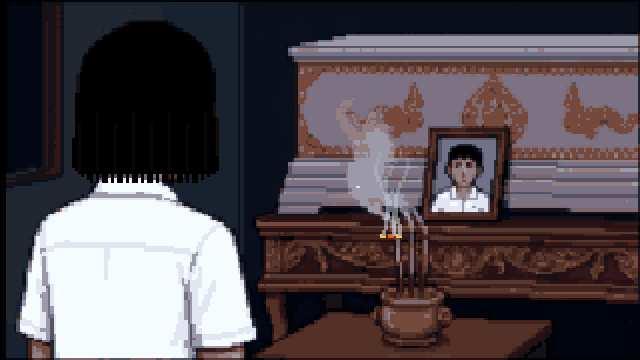
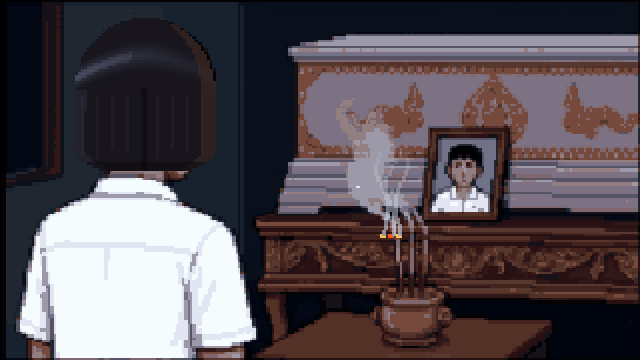
Intro fixes: shaded bob for Rin, no black bars, no doubled flashlight
- tools/rin_bob.py repaints Rin's funeral hair with shading (crown sheen,
  strands, candle rim, curled ends) instead of a flat black block
- crop the black bars baked into intro_s4_f1 so the grove fills the view
- size the story window from the screen height so the viewport stays 16:9
  on short laptop screens (no side bars)
- the grove/arrival frames already paint the hand and flashlight, so the
  code-drawn flashlight and sai-sin are only a fallback now

Changed region(s): [[0.0938, 0.0611, 0.3438, 0.5194]]

diff --git a/public/story-intro.js b/public/story-intro.js
@@ -381,19 +381,24 @@
   }
 
   /* -------------------- Shared Pixel Art Drawing Helpers -------------------- */
-  function drawCoverFrame(ctx, img, t, { zoom = 1, panX = 0, panY = 0, shakeX = 0, shakeY = 0, alpha = 1 } = {}) {
+  // Frames whose art has black bars baked in (a half-open-eyes shot): draw only the picture
+  // part, so the scene fills the viewport and the held flashlight never floats over black.
+  const FRAME_CROP = {
+    intro_s4_f1: [0, 46, 634, 270],
+  };
+
+  function drawCoverFrame(ctx, img, t, { zoom = 1, panX = 0, panY = 0, shakeX = 0, shakeY = 0, alpha = 1, crop = null } = {}) {
     if (!img) return false;
     ctx.save();
     ctx.globalAlpha = alpha;
     ctx.imageSmoothingEnabled = false;
-    const iw = img.naturalWidth || img.width;
-    const ih = img.naturalHeight || img.height;
+    const [sx, sy, iw, ih] = crop || [0, 0, img.naturalWidth || img.width, img.naturalHeight || img.height];
     const scale = Math.max(W / iw, H / ih) * zoom;
     const dw = iw * scale;
     const dh = ih * scale;
     const dx = (W - dw) * 0.5 + panX + shakeX;
     const dy = (H - dh) * 0.5 + panY + shakeY;
-    ctx.drawImage(img, Math.round(dx), Math.round(dy), Math.round(dw), Math.round(dh));
+    ctx.drawImage(img, sx, sy, iw, ih, Math.round(dx), Math.round(dy), Math.round(dw), Math.round(dh));
     ctx.restore();
     return true;
   }
@@ -885,7 +890,7 @@
     ctx.fillRect(0, 0, W, H);
 
     const img = getImg(line.frame || 'intro_s4_f0') || getImg('intro_panel_4');
-    drawCoverFrame(ctx, img, t, { zoom: 1.03, panX: Math.sin(t * 0.8) * 5, panY: Math.cos(t * 0.6) * 2 });
+    drawCoverFrame(ctx, img, t, { zoom: 1.03, panX: Math.sin(t * 0.8) * 5, panY: Math.cos(t * 0.6) * 2, crop: FRAME_CROP[line.frame] });
 
     // Floating moonlit mist & fireflies across Thai banana grove
     ctx.save();
@@ -899,8 +904,9 @@
     }
     ctx.restore();
 
-    // Protagonist holding lit keepsake flashlight + glowing wrist sai-sin in bottom-left corner
-    if (line.heldFlashlight) {
+    // Protagonist holding lit keepsake flashlight + glowing wrist sai-sin in bottom-left corner.
+    // The painted grove frames already show the hand and flashlight, so this is only a fallback.
+    if (line.heldFlashlight && !img) {
       const swayX = Math.sin(t * 1.8) * 6;
       const swayY = Math.cos(t * 2.1) * 4;
       drawPocketFlashlight(ctx, 136 + swayX, H - 78 + swayY, 2.5, true, t);
@@ -960,7 +966,8 @@
     ctx.fillRect(mx - 22, my - 24, 44, 94);
     ctx.restore();
 
-    if (line.heldFlashlight) {
+    // the painted frames already show the hand and flashlight; draw ours only as a fallback
+    if (line.heldFlashlight && !frameImg) {
       drawPocketFlashlight(ctx, 136, H - 78, 2.5, true, t);
       drawSaiSinGlow(ctx, 94, H - 58, t, 1.45, 0.95);
     }

diff --git a/public/style.css b/public/style.css
@@ -3139,7 +3139,9 @@ body,
 .story-intro.hidden { display: none; }
 
 .story-window {
-  width: min(980px, 95vw);
+  /* sized from the screen height minus the subtitle area (~190px), so the picture keeps
+     16:9 on a short laptop screen instead of being squashed with black bars beside it */
+  width: min(980px, 95vw, calc((94vh - 190px) * 16 / 9));
   max-height: 94vh;
   display: flex;
   flex-direction: column;
@@ -3157,7 +3159,6 @@ body,
   position: relative;
   width: 100%;
   aspect-ratio: 16 / 9;
-  max-height: 62vh;
   background: #040406;
   border-bottom: 1px solid rgba(201, 164, 90, 0.36);
   overflow: hidden;
@@ -3393,7 +3394,6 @@ body,
 }
 
 @media (max-height: 680px) {
-  .story-viewport { max-height: 55vh; }
   .story-line { min-height: 2.5em; }
 }
 

diff --git a/tools/rin_bob.py b/tools/rin_bob.py
@@ -1,6 +1,10 @@
 """Paint a schoolgirl bob onto the protagonist (seen from behind) in the funeral frames.
-Usage: python -I rin_bob.py <frames_dir>   -> writes intro_s1_fN_rin.png beside each frame."""
-import sys, os
+Usage: python -I rin_bob.py <frames_dir>   -> writes intro_s1_fN_rin.png beside each frame.
+
+The hair is shaded like the rest of the pixel art: a dark blue-black base, a cool sheen band
+across the crown (window light from the left), a few lighter strands, a warm candle rim on the
+right and a rounded, curled-under bottom edge, so it reads as hair and not a black box."""
+import sys, os, math
 from PIL import Image
 
 # per frame: skull left/right at its widest row, that row's y, collar top at the neck centre
@@ -13,41 +17,82 @@ HEADS = {
 }
 B = 3  # art pixel block
 
+BASE = (24, 21, 28)
+DEEP = (12, 10, 15)
+STRAND = (38, 36, 48)
+SHEEN = (58, 64, 84)
+SHEEN_HI = (82, 90, 112)
+RIM = (66, 44, 34)
+
+
+def mix(a, b, k):
+    return tuple(int(a[i] + (b[i] - a[i]) * k) for i in range(3))
+
+
+def head_top(px, cx, wy):
+    y = wy
+    while y > 2 and sum(px[cx, y - 1]) < 90:
+        y -= 1
+    return y
+
 
 def paint(src, dst, xL, xR, wy, yC):
     im = Image.open(src).convert('RGB')
     px = im.load()
     W, H = im.size
     cx = (xL + xR) // 2
-    samp = sorted(px[x, y] for x in range(max(0, cx - 30), cx + 30, 3) for y in range(wy - 30, wy, 3))
-    base = samp[len(samp) // 2]
-    shade = lambda d: tuple(max(0, min(255, c + d)) for c in base)
-    yB = yC + 16
-    length = yB - wy
-    width = xR - xL
-    for by in range(wy - wy % B, yB, B):
-        t = (by - wy) / length
-        flare = int(4 * t)                           # bob widens a touch toward the ends
-        curl = 0
-        if t > 0.78:                                 # rounded, curled-under bottom corners
-            curl = int(((t - 0.78) / 0.22) ** 1.6 * 22)
-        lo, hi = xL - flare + curl, xR + flare - curl
-        for bx in range(lo - lo % B, hi + 1, B):
-            u = (bx - xL) / max(1, width)            # 0 left .. 1 right
-            c = shade(0)
-            # strands: thin lighter lines that start at different heights
-            k = (bx // B) % 6
-            if k == 2 and 0.2 + 0.2 * ((bx // B) % 4) / 3 < t < 0.85:
-                c = shade(7)
-            if hi - B < bx and 0.1 < t < 0.7:           # faint warm rim from the altar candles
-                c = (min(255, base[0] + 22), min(255, base[1] + 13), min(255, base[2] + 7))
-            if t > 0.9 and (bx // B) % 5 in (1, 3):  # tapered, slightly uneven tips
+    cxs = min(W - 1, max(0, cx))
+    top = head_top(px, cxs, wy) - 2
+    half = (xR - xL) / 2 + 1          # a little volume over the skull
+    yB = yC + 3                       # ends just on the collar
+    for by in range(top - top % B, yB, B):
+        yc = by + B / 2
+        if yc < wy:                   # crown: follow the skull's ellipse
+            v = (wy - yc) / max(1, wy - top)
+            hw = half * math.sqrt(max(0.0, 1 - v * v))
+        else:                         # fall: straight, then curl under at the ends
+            t = (yc - wy) / max(1, yB - wy)
+            hw = half + 1.5 * t
+            if t > 0.72:
+                hw -= ((t - 0.72) / 0.28) ** 2 * half * 0.35
+        if hw < 2:
+            continue
+        lo, hi = cx - hw, cx + hw
+        for bx in range(int(lo) - int(lo) % B, int(hi) + 1, B):
+            xc = bx + B / 2
+            if xc < lo or xc > hi:
                 continue
-            for yy in range(by, min(by + B, H)):
+            u = (xc - lo) / max(1, hi - lo)          # 0 left .. 1 right
+            c = BASE
+            # sheen: an arc across the upper crown, brightest on the window (left) side
+            if yc < wy + 8:
+                v = (wy - yc) / max(1, wy - top)     # 1 at the top, 0 at the widest row
+                band = 1 - abs(v - (0.5 - 0.3 * (u - 0.5) ** 2 * 4)) / 0.2
+                if band > 0:
+                    k = band * (0.85 - 0.6 * u)
+                    c = mix(c, SHEEN_HI if band > 0.7 and u < 0.4 else SHEEN, max(0, min(1, k)))
+            # strands below the sheen, staggered lengths
+            col = int(bx // B)
+            if yc > wy + 4 and col % 5 == 2:
+                end = yB - 3 * B - (col * 7 % 4) * B
+                if yc < end:
+                    c = mix(c, STRAND, 0.5)
+            # parting shadow down the middle of the back
+            if abs(xc - cx) < B and yc > wy - 6:
+                c = mix(c, DEEP, 0.6)
+            # cold window light on the left edge, warm candle rim on the right
+            if u < 0.08 and yc > wy - 4:
+                c = mix(c, SHEEN, 0.3)
+            if u > 0.9 and yc > top + 6:
+                c = mix(c, RIM, 0.55)
+            # the curled-under ends are in shadow
+            if yc > yB - 2 * B:
+                c = mix(c, DEEP, 0.55)
+            for yy in range(max(0, by), min(by + B, H)):
                 for xx in range(max(0, bx), min(bx + B, W)):
                     px[xx, yy] = c
     im.save(dst)
-    print(os.path.basename(dst), base)
+    print(os.path.basename(dst), 'top', top)
 
 
 d = sys.argv[1]
